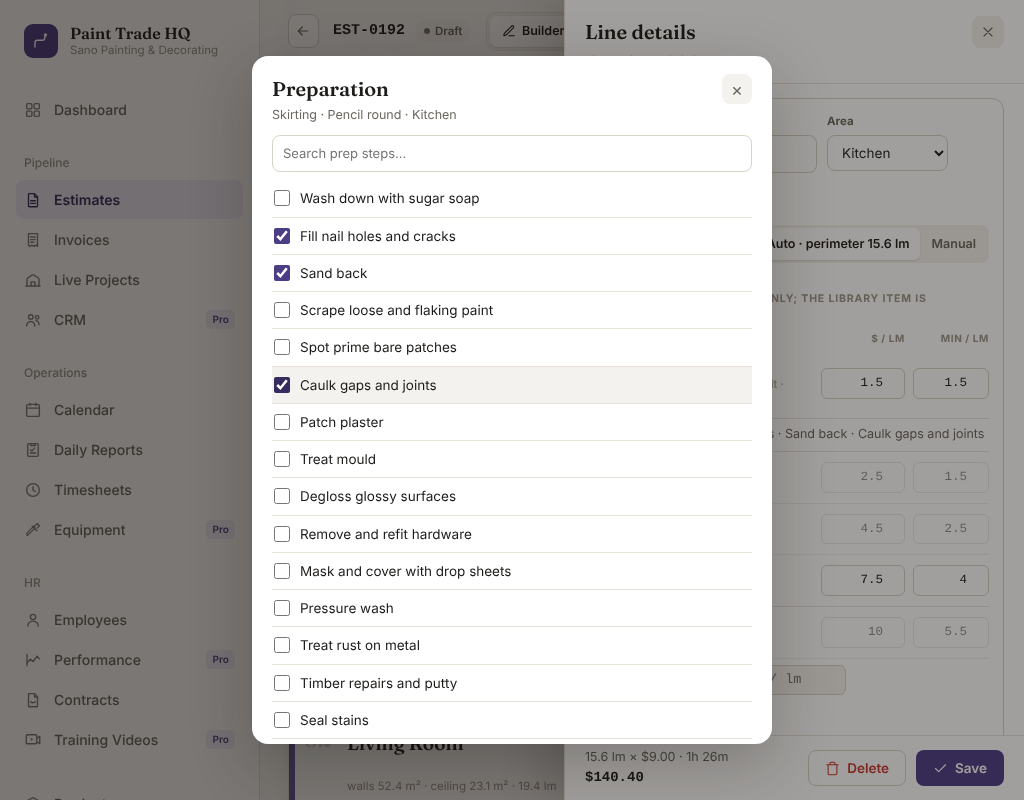
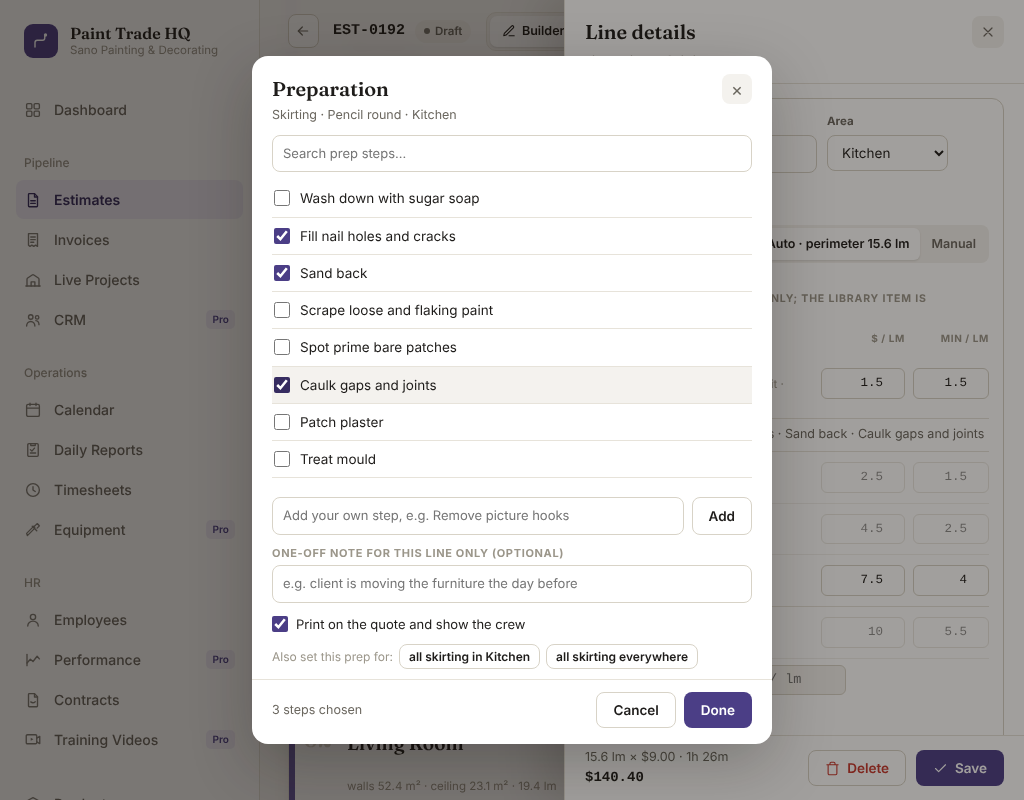
Round 89 prototype: the pop-up's list scrolls, footer stays on screen (27/27)
Claude-Session: https://claude.ai/code/session_017aPXW2J3d9sk8NT22hJVrV

Changed region(s): [[0.25, 0.5938, 0.75, 0.9375], [0.6875, 0.625, 0.7188, 0.6562]]

diff --git a/tools/test_prep.js b/tools/test_prep.js
@@ -23,6 +23,7 @@ const ok = (name, cond) => { if (cond) { pass++; console.log('PASS', name); } el
   ok('the three chosen steps are ticked and counted', (await p.locator(T('prep-list') + ' input:checked').count()) === 3 && (await p.locator(T('prep-count')).textContent()).trim() === '3 steps chosen');
   const box = await p.locator('#mbox').boundingBox();
   ok('the pop-up is a centred box about 520 px wide, above the panel', box && box.width <= 520 && box.x > 400 && box.x + box.width < 1040);
+  ok('the Done button and the list stay on screen together (the list scrolls)', await p.locator(T('prep-done')).isVisible() && (await p.locator(T('prep-done')).boundingBox()).y + 40 <= 900 && await p.evaluate(() => { const l = document.querySelector('[data-testid="prep-list"]'); return l.scrollHeight > l.clientHeight; }));
   await p.screenshot({ path: OUT + 'r89-popup-1440.png' });
   // search, tick, own step, remove, note, print switch
   await p.fill(T('prep-search'), 'sand'); await p.waitForTimeout(200);
@@ -76,6 +77,7 @@ const ok = (name, cond) => { if (cond) { pass++; console.log('PASS', name); } el
   const b2 = await p.locator('#mbox').boundingBox();
   ok('1024: the pop-up fits inside the viewport', b2 && b2.x >= 0 && b2.x + b2.width <= 1024 && b2.y + b2.height <= 800);
   ok('1024: no horizontal scroll', await p.evaluate(() => document.documentElement.scrollWidth <= window.innerWidth));
+  ok('1024: Done stays on screen', await p.locator(T('prep-done')).isVisible() && (await p.locator(T('prep-done')).boundingBox()).y + 40 <= 800);
   await p.screenshot({ path: OUT + 'r89-popup-1024.png' });
   ok('no console errors at 1024', errs.length === 0);
   console.log(`\n${pass} passed, ${fail} failed`);

diff --git a/estimate-builder-prep.html b/estimate-builder-prep.html
@@ -683,13 +683,14 @@
   .prepsum .notq{ font-size:10.5px; letter-spacing:.06em; text-transform:uppercase; color:var(--text-muted); margin-left:6px; }
   .mscrim.prepscrim{ z-index:120; }
   .mbox.prep{ max-width:520px; display:flex; flex-direction:column; max-height:86vh; }
+  .prep-pop{ display:flex; flex-direction:column; min-height:0; max-height:86vh; }
   .pp-head{ display:flex; align-items:flex-start; justify-content:space-between; gap:12px; padding:18px 20px 10px; }
   .pp-head h3{ margin:0; font-family:var(--font-display); font-weight:600; font-size:20px; }
   .pp-head .sub{ font-size:12.5px; color:var(--text-secondary); margin-top:2px; }
   .pp-head .x{ border:none; background:var(--surface-sunken); width:30px; height:30px; border-radius:8px; cursor:pointer; font-size:18px; color:var(--text-secondary); }
   .pp-search{ padding:0 20px 8px; }
   .pp-search input{ width:100%; box-sizing:border-box; border:1px solid var(--border-strong); border-radius:8px; padding:8px 10px; font:inherit; font-size:13px; }
-  .pp-list{ overflow-y:auto; padding:0 20px; min-height:120px; }
+  .pp-list{ flex:1 1 auto; overflow-y:auto; padding:0 20px; min-height:120px; }
   .pp-item{ display:flex; align-items:center; gap:10px; padding:8px 2px; border-bottom:1px solid var(--border); font-size:13.5px; cursor:pointer; }
   .pp-item:hover{ background:var(--surface-sunken); }
   .pp-item input{ width:16px; height:16px; accent-color:var(--accent); margin:0; flex-shrink:0; }

diff --git a/tools/make_prep.py b/tools/make_prep.py
@@ -31,11 +31,11 @@ rep("  .coatrow.off{ opacity:.5; }",
     "  .coatrow .lnk, .prepsum .lnk{ border:none; background:none; color:var(--accent); font:inherit; font-size:11.5px; font-weight:600; cursor:pointer; padding:0; }\n"
     "  .prepsum{ font-size:12.5px; color:var(--text-secondary); padding:6px 0 8px 30px; border-bottom:1px solid var(--border); line-height:1.45; }\n"
     "  .prepsum .extra{ font-style:italic; }\n  .prepsum .notq{ font-size:10.5px; letter-spacing:.06em; text-transform:uppercase; color:var(--text-muted); margin-left:6px; }\n"
-    "  .mscrim.prepscrim{ z-index:120; }\n  .mbox.prep{ max-width:520px; display:flex; flex-direction:column; max-height:86vh; }\n"
+    "  .mscrim.prepscrim{ z-index:120; }\n  .mbox.prep{ max-width:520px; display:flex; flex-direction:column; max-height:86vh; }\n  .prep-pop{ display:flex; flex-direction:column; min-height:0; max-height:86vh; }\n"
     "  .pp-head{ display:flex; align-items:flex-start; justify-content:space-between; gap:12px; padding:18px 20px 10px; }\n  .pp-head h3{ margin:0; font-family:var(--font-display); font-weight:600; font-size:20px; }\n  .pp-head .sub{ font-size:12.5px; color:var(--text-secondary); margin-top:2px; }\n"
     "  .pp-head .x{ border:none; background:var(--surface-sunken); width:30px; height:30px; border-radius:8px; cursor:pointer; font-size:18px; color:var(--text-secondary); }\n"
     "  .pp-search{ padding:0 20px 8px; }\n  .pp-search input{ width:100%; box-sizing:border-box; border:1px solid var(--border-strong); border-radius:8px; padding:8px 10px; font:inherit; font-size:13px; }\n"
-    "  .pp-list{ overflow-y:auto; padding:0 20px; min-height:120px; }\n"
+    "  .pp-list{ flex:1 1 auto; overflow-y:auto; padding:0 20px; min-height:120px; }\n"
     "  .pp-item{ display:flex; align-items:center; gap:10px; padding:8px 2px; border-bottom:1px solid var(--border); font-size:13.5px; cursor:pointer; }\n  .pp-item:hover{ background:var(--surface-sunken); }\n"
     "  .pp-item input{ width:16px; height:16px; accent-color:var(--accent); margin:0; flex-shrink:0; }\n  .pp-item .own{ font-size:10px; letter-spacing:.06em; text-transform:uppercase; color:var(--text-muted); margin-left:auto; }\n"
     "  .pp-item .rm{ border:none; background:none; color:var(--text-muted); cursor:pointer; font-size:15px; padding:0 4px; visibility:hidden; }\n  .pp-item:hover .rm{ visibility:visible; }\n  .pp-item .rm:hover{ color:var(--danger, #B4232C); }\n"

diff --git a/admin-remaining.md b/admin-remaining.md
@@ -35,7 +35,7 @@ Everything the admin chat has specced so far is built, except the items below. O
 
 | Item | What it is | Waits for |
 |---|---|---|
-| **Round 89 — Prep as a pop-up** (`prep-presets-notes.md`, prototype `estimate-builder-prep.html`, 25/25 checks) | Tick Preparation on a line → Add prep / Edit prep opens a checklist of the business's prep steps (15 standard + your own, add and remove), multiple ticks, a one-off note, print on the quote, apply to the area or everywhere. No Library section (Josh's change of flow). | Josh's review and "send". |
+| **Round 89 — Prep as a pop-up** (`prep-presets-notes.md`, prototype `estimate-builder-prep.html`, 27/27 checks) | Tick Preparation on a line → Add prep / Edit prep opens a checklist of the business's prep steps (15 standard + your own, add and remove), multiple ticks, a one-off note, print on the quote, apply to the area or everywhere. No Library section (Josh's change of flow). | Josh's review and "send". |
 | **Round 88 — Builder: areas in order, one product once, paint from coverage** (`builder-paint-notes.md`, prototype `estimate-builder-paint.html`, 31/31 checks) | Areas move up and down from their number; each product listed once with coverage and sizes; litres per line = m² × coats ÷ coverage, auto or by hand; a Paint card under the totals with tins and cost per product, In my rates (default) or Charge on top; one Paint line for the client, never litres; the default in Quote setup › Pricing. | **BUILT 8 Nov**: everything in the spec; builder and server agree to the cent; the Quote setup › Pricing default exposed a pre-existing blank-Pricing-tab bug on tenants with issued quote numbers, fixed with one line; Lucy's paint answer unverified in the harness (Josh asks her after the publish); draft n 32. **Waits for publish.** |
 | **Round 87 — Fix Round H** (`fix-round-h-notes.md`; the sorting of Josh's 7 Nov notes in `notes-triage-7nov.md`, checked against the code at `82bf0a3`) | Twenty-one small items with code references: the sidebar user row that signs out, the quote details panel's keyboard (a component defined inside the render), the face picker closing on one pick, the CRM New lead button and inbox scrolling, the equipment list, slow photo capture, the timesheet entry delete, the estimates-list link, the Promotions-tab email, the New client form, the PDF logo field, camera-or-gallery everywhere, the Library catalogue count and search by brand/category, a month-cell click opening the day, plus the five October leftovers. Two of Josh's notes were already fixed in November (Employees speed, the PDF logo). | **BUILT 7 Nov**: 17 fixed, 4 needed no change (equipment lists his one item; New client dialog clean; PDF logo field matches; catalogue 1,101 rows — the search was the problem); photo 1.87 MB → 499 kB and 0.74 → 0.36 s; employees ~130 ms; the email now From "{Business} via Paint Trade HQ" with a text part; DMARC already published; draft n 30. Two pre-existing test failures from the November work → Fix Round I. **Waits for publish.** Then 88 builder → 89 prep presets → 91 calendar → 92 admin push → 93 trade accounts → 90 catalogue additions if wanted; the crew items are the crew chat's. |
 | **Round 86 — Presentation and brand images out of the records, and the missing indexes** (`presentation-images-notes.md`) | Every quote with presentation pages carries 14.6 MB of photos as text (241 MB in `estimates`); the lists and the dashboard read it (live dashboard home 10,094 ms in 10 trips, all wave 1, with a 39 ms database ping). Photos become files, the per-quote copy holds links, the move tool covers `presentation`, the templates and wherever the brand images are (the profile is still 1,199 kB), Check storage scans them, `presentation` is excluded from every list read. Plus: the ten Round 85 indexes do not exist on the live database — find out why and make startup create them. Then Josh's dry run → Apply → Speed check on the live app. | **BUILT 25 Oct** (`round86-message.md`): presentation photos as files with SHA-256 dedupe; the move covers `estimates.presentation`, the templates and `admins` (the 1,199 kB profile is the owner's profile photo on the admin record, `admins.photo_url`, not the logo); the seeded ten quotes 105 MB → 28 kB, `/estimates` 107.6 MB → 10.3 kB; the wave-1 culprit was the estimates read; the live "0 indexes" was a false reading (`$indexStats` refused on the live database user; now `listIndexes` + a startup index run shown in the card); reminder job 1,541 trips → 2; the repeated `me`/`unread`/`status` are distinct routes and two 120 s polls, no duplicates; suite 894/113; tsc clean. **PUBLISHED and applied 25 Oct** (Josh: "all done"). Live Speed check 5:54 pm: dashboard home **270 ms · 10 trips** (from 10,094), indexes 10 of 10 with a startup run "24 ok · 0 failed", reminder job 130 ms (from 3,813). Josh confirmed 25 Oct: Check storage reads `estimates` 1 MB (from 241), the profile row is small, "the loading problem is fixed". Closed. |

diff --git a/prep-presets-notes.md b/prep-presets-notes.md
@@ -1,6 +1,6 @@
 # Round 89 — Prep as a pop-up from the line panel (8 November) — DRAFT, waits for Josh's review and "send"
 
-Prototype: **`estimate-builder-prep.html`** (open at 1440: click the Skirting line's summary → the Preparation row reads "Edit prep · 3" with the steps under it → click it → the pop-up: search "sand", tick Wash down, type "Remove picture hooks" + Enter, hover "Strip old wallpaper" and × it, type a one-off note, Done → Save → the paper and the Client view carry the steps; open the Walls line, tick Preparation → "Add prep"; then 1024). Playwright `tools/test_prep.js` **25/25** at 1440 and 1024. Built on the Round 88 builder (`estimate-builder-paint.html`, generator `tools/make_prep.py`); everything not named here is unchanged. Josh's note 21 of 7 Nov, with his change of flow (8 Nov): **not a Library section — a pop-up from the builder, multiple steps, add your own.**
+Prototype: **`estimate-builder-prep.html`** (open at 1440: click the Skirting line's summary → the Preparation row reads "Edit prep · 3" with the steps under it → click it → the pop-up: search "sand", tick Wash down, type "Remove picture hooks" + Enter, hover "Strip old wallpaper" and × it, type a one-off note, Done → Save → the paper and the Client view carry the steps; open the Walls line, tick Preparation → "Add prep"; then 1024). Playwright `tools/test_prep.js` **27/27** at 1440 and 1024. Built on the Round 88 builder (`estimate-builder-paint.html`, generator `tools/make_prep.py`); everything not named here is unchanged. Josh's note 21 of 7 Nov, with his change of flow (8 Nov): **not a Library section — a pop-up from the builder, multiple steps, add your own.**
 
 ## 1. Where it lives
 
